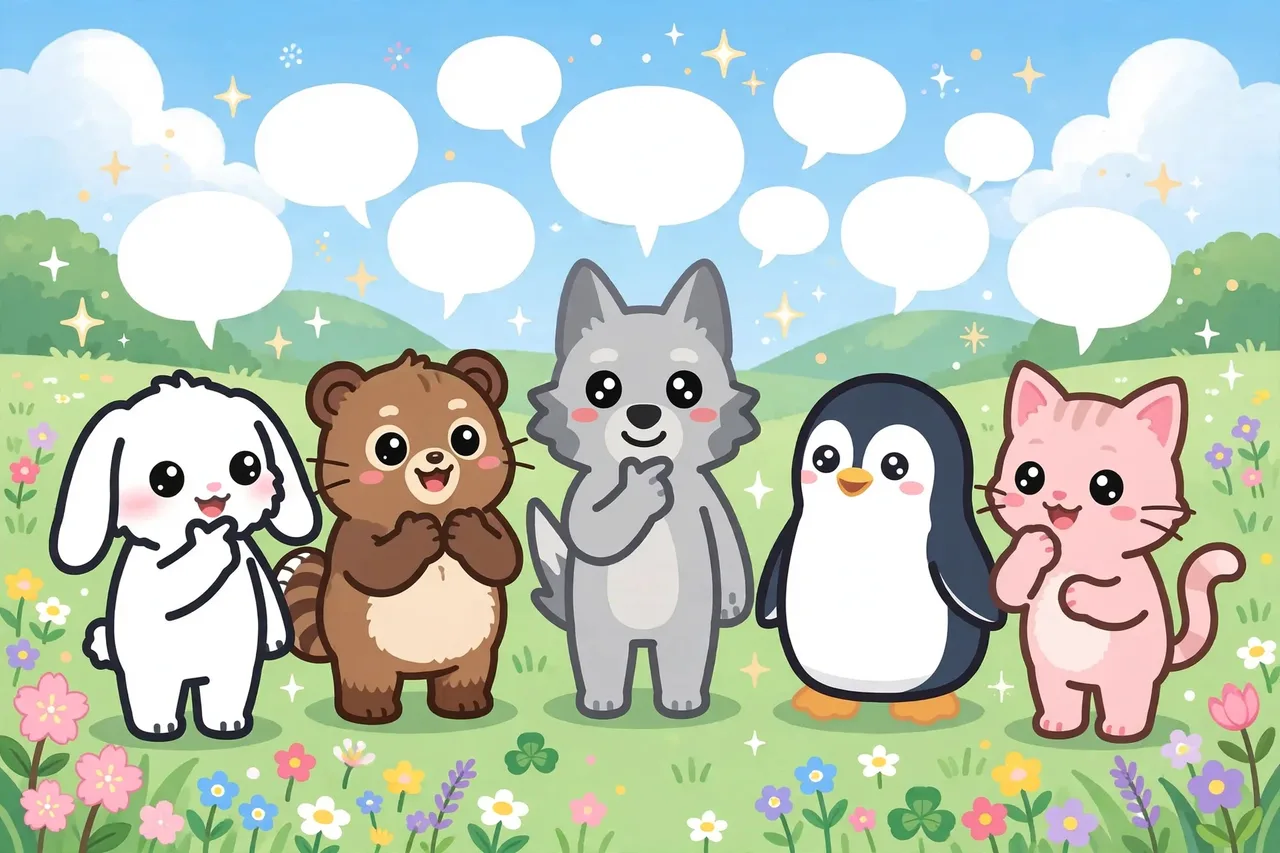
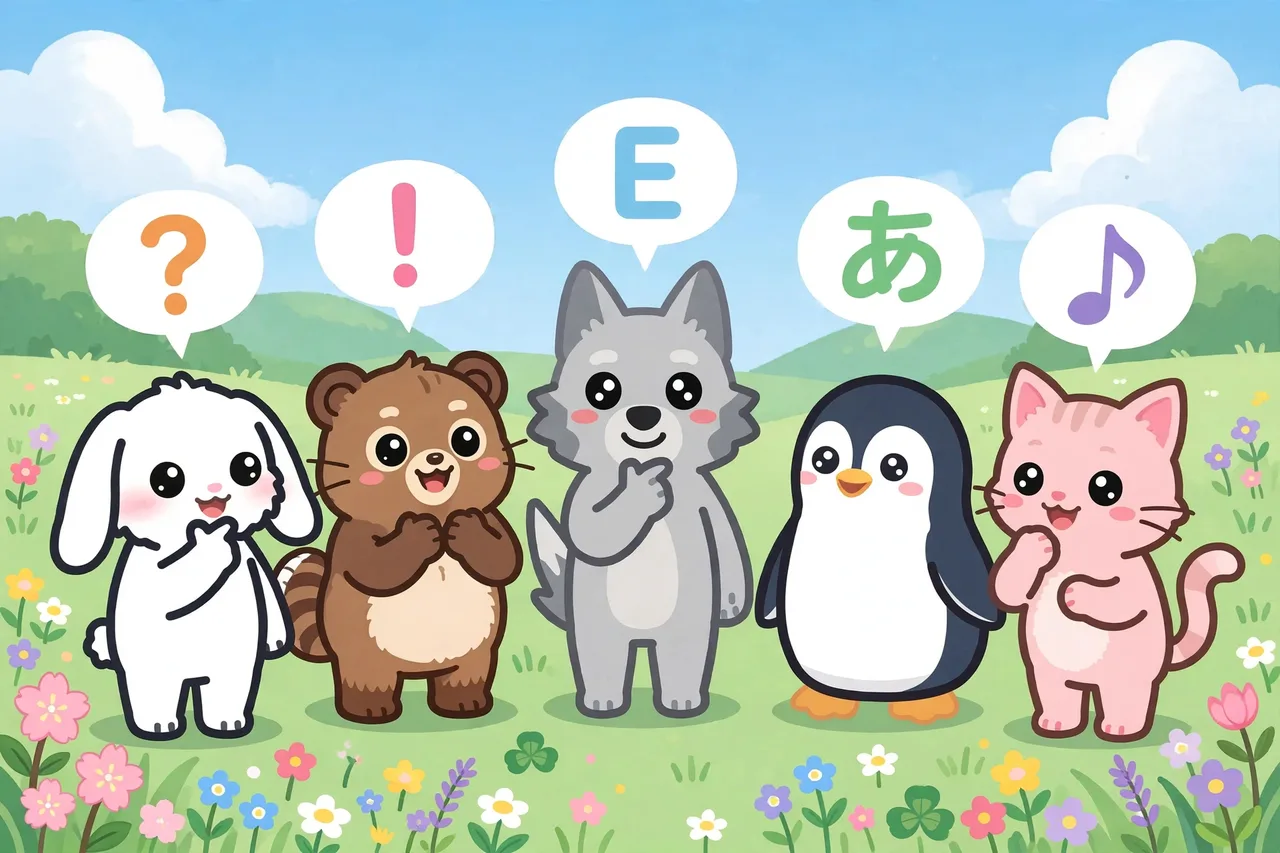
LP v3：吹き出しに文字入れ＋セクション区切りイラスト追加 (API sync)

diff --git a/client/lp.html b/client/lp.html
@@ -38,6 +38,8 @@
   .cta-note { margin-top: 12px; font-size: 13px; color: #5d7d94; }
   /* 帯セクション */
   .band { padding: 42px 0 48px; margin-top: 40px; }
+  .divider-full { display: block; width: 100%; height: auto; margin-top: 40px; }
+  .band-after-divider { margin-top: 0; }
   .band-white { background: #ffffff; }
   .band-mint { background: linear-gradient(180deg, #eafff6, #d8f7e8); }
   .band-sky { background: linear-gradient(180deg, #d8f2ff, #eafaff); }
@@ -142,7 +144,9 @@
   </div>
 </div>
 
-<div class="band band-mint">
+<img class="divider-full" src="./img/lp-divider-net.webp" alt="" loading="lazy" />
+
+<div class="band band-mint band-after-divider">
   <div class="inner">
     <h2>遊び方</h2>
     <p class="h2-sub">ルールは3ステップだけ。</p>
@@ -164,7 +168,9 @@
   </div>
 </div>
 
-<div class="band band-sky">
+<img class="divider-full" src="./img/lp-divider-letter.webp" alt="" loading="lazy" />
+
+<div class="band band-sky band-after-divider">
   <div class="inner">
     <h2>ギフトで盛り上がろう</h2>
     <p class="h2-sub">

diff --git a/docs/handover.md b/docs/handover.md
@@ -1435,3 +1435,4 @@ Cloudflare Pages デプロイは自動完結できず、おぎの操作待ち。
 - 同日：フレンドタブ一式を「フレンドタブパッケージLite」として Drive の OGI Games フォルダに収録（README＋SQL/JS/CSS 8ファイル）。引き継ぎパック（Drive）を最新化（4件更新＋4件追加）。スペース「ことば人狼 Lite 開発メモ」を最新版に更新。
 - Supabase 方針メモ：無料枠は2プロジェクトで満杯（本家＋Lite）。今後の Lite 系は「1プロジェクトに接頭辞で相乗り」が無料運用の本命、Pro は $25/月＋追加1件ごとに $10/月。
 - LP v2（同日）：おぎ要望「画像が豊富なLPに」で作り直し。ヒーローイラスト（生成・lp-hero.webp）とギフトイラスト（lp-gift.webp）を新規生成し、実際のゲーム画面スクショ4点（ロビー／待機室／話し合い／グループチャット、デモモードで撮影し client/img/lp-shot-*.webp に最適化）を掲載。結果画面はデモ表示文言が写るため不採用。生成マスターは ~/workspace/kotoba-jinrou-lite-data/lp/ に保管。
+- LP v3（同日）：ヒーローの吹き出しを人数分（5つ）にし、各吹き出しにカラフルな記号・文字（？／！／E／あ／♪）を入れた版に差し替え。セクション間に区切りイラスト2点を追加（虫とり網で「あ」を追うペンギン／手紙を届けるうさぎ、生成マスターは data/lp/ に保管）。
